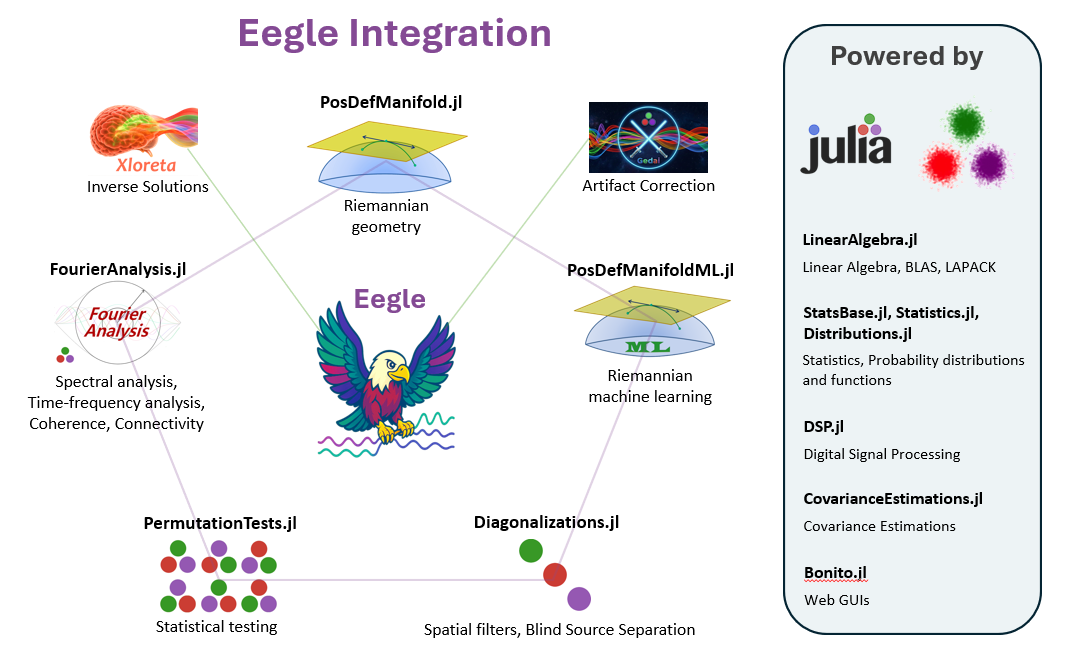
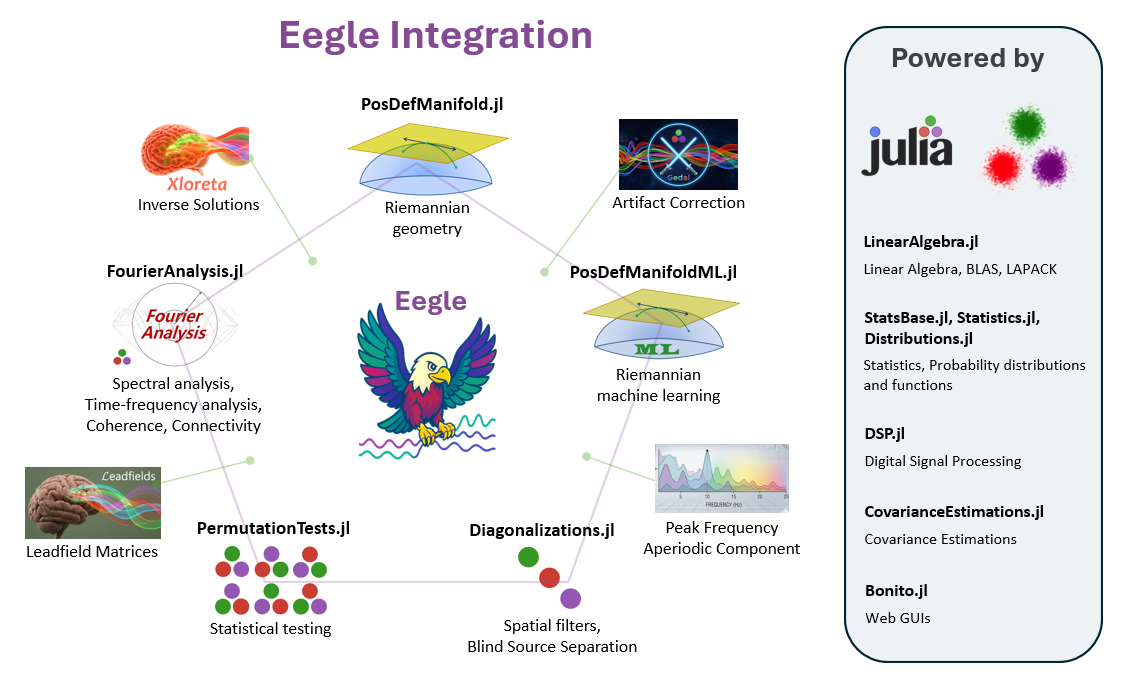
Merge pull request #259 from Marco-Congedo/dev
v2.8: updated dependencies. Improved docs

Pull request: Dev
Updated dependencies

diff --git a/README.md b/README.md
@@ -8,7 +8,7 @@
 
 # Eegle (EEG general library) 
 
-This is a pure-[**julia**](https://julialang.org/) 90%-human package for human EEG (Electroencephalography) data analysis and classification.
+This is a pure-[**julia**](https://julialang.org/) 95%-human package for human EEG (Electroencephalography) data analysis and classification.
 
 It is the fundamental brick allowing the integration of several packages dedicated to human EEG.
 
@@ -51,7 +51,7 @@ A large collection of [tutorials](https://marco-congedo.github.io/Eegle.jl/stabl
 ---
 ## 🌱 Contribute
 
-Please contact the authors if you are interested in contributing.
+Please read the [guidelines](https://marco-congedo.github.io/Eegle.jl/stable/Eegle/#How-to-Contribute) and contact the authors if you are interested in contributing.
 
 ---
 | 📖 **Documentation**  | 

diff --git a/docs/src/Eegle.md b/docs/src/Eegle.md
@@ -92,6 +92,7 @@ you have access to all functions exported by all **Eegle** modules and by all re
 | [Leadfields.jl](https://github.com/Marco-Congedo/Leadfields.jl) | Leadfields for EEG inverse solutions |
 | [Xloreta](https://github.com/Marco-Congedo/Xloreta.jl) | sLORETA and eLORETA EEG distributed inverse solutions |
 | [Gedai](https://github.com/Marco-Congedo/Gedai) | automatic artifact correction for EEG |
+| [PeakFrequency](https://github.com/Lucreziadimarino/PeakFrequency.jl) | peak frequency and aperiodic component removal |
 | [EEGPlot](https://github.com/Marco-Congedo/EEGPlot.jl) | static and interactive plots for EEG and ERP data |
 | [UnfoldMakie](https://github.com/unfoldtoolbox/UnfoldMakie.jl/tree/main) | Topographic and several other plots for EEG and ERP data |
 